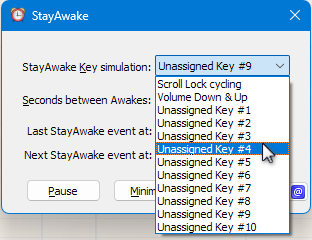
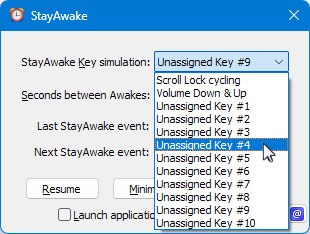
StayAwake v1.2.1.0 pre-release

diff --git a/README.md b/README.md
@@ -11,13 +11,13 @@
 <a title="OSSign - Code Signing for Open Source" href="https://www.ossign.org"><img style="width:100px; height:86px;" src="images/OSSign.png"/></a>
 
 
-[Current Version: 1.2.0.0](https://github.com/shriprem/StayAwake/blob/main/VersionHistory.md)
+[Current Version: 1.2.1.0](https://github.com/shriprem/StayAwake/blob/main/VersionHistory.md)
 
 StayAwake is a simple utility that enables you to maintain an _Active_ status on Microsoft Teams (and perhaps other messaging applications such as Slack and Zoom). StayAwake also prevents screen saver activation, screen blanking, and Windows session lockouts.
 
 If you are using Microsoft Teams, you may have noticed that Teams automatically sets your status to _Away_ after a certain period of inactivity. This can be frustrating if you are still at your desk but perhaps on a business phone call _OR_ outlining a plan on paper _OR_ consulting some reference material.
 
-StayAwake can be minimized to the Windows System Tray, and will continue to run in the background until you click the _Exit_ button.
+StayAwake can be minimized to the Windows System Tray, and will continue to run in the background until you click the _Exit_ button. StayAwake also has the option to automatically minimize to Windows System Tray upon launch. See: [Start Minimized](#start-minimized)
 
 StayAwake does its job by simulating key presses of unused or low side-effect buttons at specified time intervals. This is a safe and non-intrusive way to keep your Microsoft Teams status _Active_.
 
@@ -55,6 +55,11 @@ Click this button to minimize StayAwake to the Windows System Tray. See the [Sys
 
 #### Exit button
 Click this button to exit StayAwake.
+
+#### Start Minimized
+Check the _Launch application in minimized state_ box to have StayAwake automatically minimize to System Tray upon launch.
+
+When the _Start Minimized_ option is enabled, StayAwake will launch and minimize immediately only on the first launch attempt. If StayAwake is still running in a minimized state, trying to launch the application again will restore the StayAwake dialog from the minimized state. This is by design when `MultipleInstancesAllowed=N`. See under: [Configuration File Details](#configuration-file-details)
 
 
 ### Key Simulation Options
@@ -96,7 +101,7 @@ When you minimize StayAwake, it will be represented by the System Tray icon show
 
 
 ## Configuration File Details
-StayAwake saves its configuration in a file named `StayAwakeConfig.ini`. This file is co-located in the `StayAwake.exe` application file folder. These key-value pairs are stored in this file:
+StayAwake saves its configuration in a file named `StayAwake.ini`. This file is co-located in the `StayAwake.exe` application file folder. These key-value pairs are stored in this file:
 
 1. `AwakeKeyCode`: This key stores a numeric value between 0 and 11 to indicate the selection for the [StayAwake Key simulation](#stayawake-key-simulation-list) list.
 
@@ -106,7 +111,9 @@ StayAwake saves its configuration in a file named `StayAwakeConfig.ini`. This fi
 
 3. `AwakePaused`: This key stores a flag value (_Y_ or _N_) to indicate if StayAwake is in paused state.
 
-4. `MultipleInstancesAllowed`: This key stores a flag value (_Y_ or _N_) to indicate whether multiple instances of StayAwake are allowed to run simultaneously. The default value is _N_ (i.e., multiple instances are not allowed). Any value that is not _Y_ will be interpreted as _N_.
+4.  `StartMinimized`: This key stores a flag value (_Y_ or _N_) to indicate if StayAwake will automatically minimize to System Tray upon launch. See: [Start Minimized](#start-minimized)
+
+5. `MultipleInstancesAllowed`: This key stores a flag value (_Y_ or _N_) to indicate whether multiple instances of StayAwake are allowed to run simultaneously. The default value is _N_ (i.e., multiple instances are not allowed). Any value that is not _Y_ will be interpreted as _N_.
 
 
 ## Alternatives

diff --git a/VersionHistory.md b/VersionHistory.md
@@ -1,5 +1,14 @@
 ## Version History
 
+### Version 1.2.1.0 [January 1, 2026]
+
+1. Added a checkbox option to have StayAwake automatically minimize to System Tray upon launch. See issue: [#8](https://github.com/shriprem/StayAwake/issues/8)
+2. Fixed: Pressing ENTER key was causing StayAwake application to exit. See issue: [#9](https://github.com/shriprem/StayAwake/issues/9)
+
+**Release:** [1.2.1.0 Release](https://github.com/shriprem/StayAwake/releases/tag/v1.2.1.0)
+
+---
+
 ### Version 1.2.0.0 [October 8, 2025]
 
 #### Enhancements
